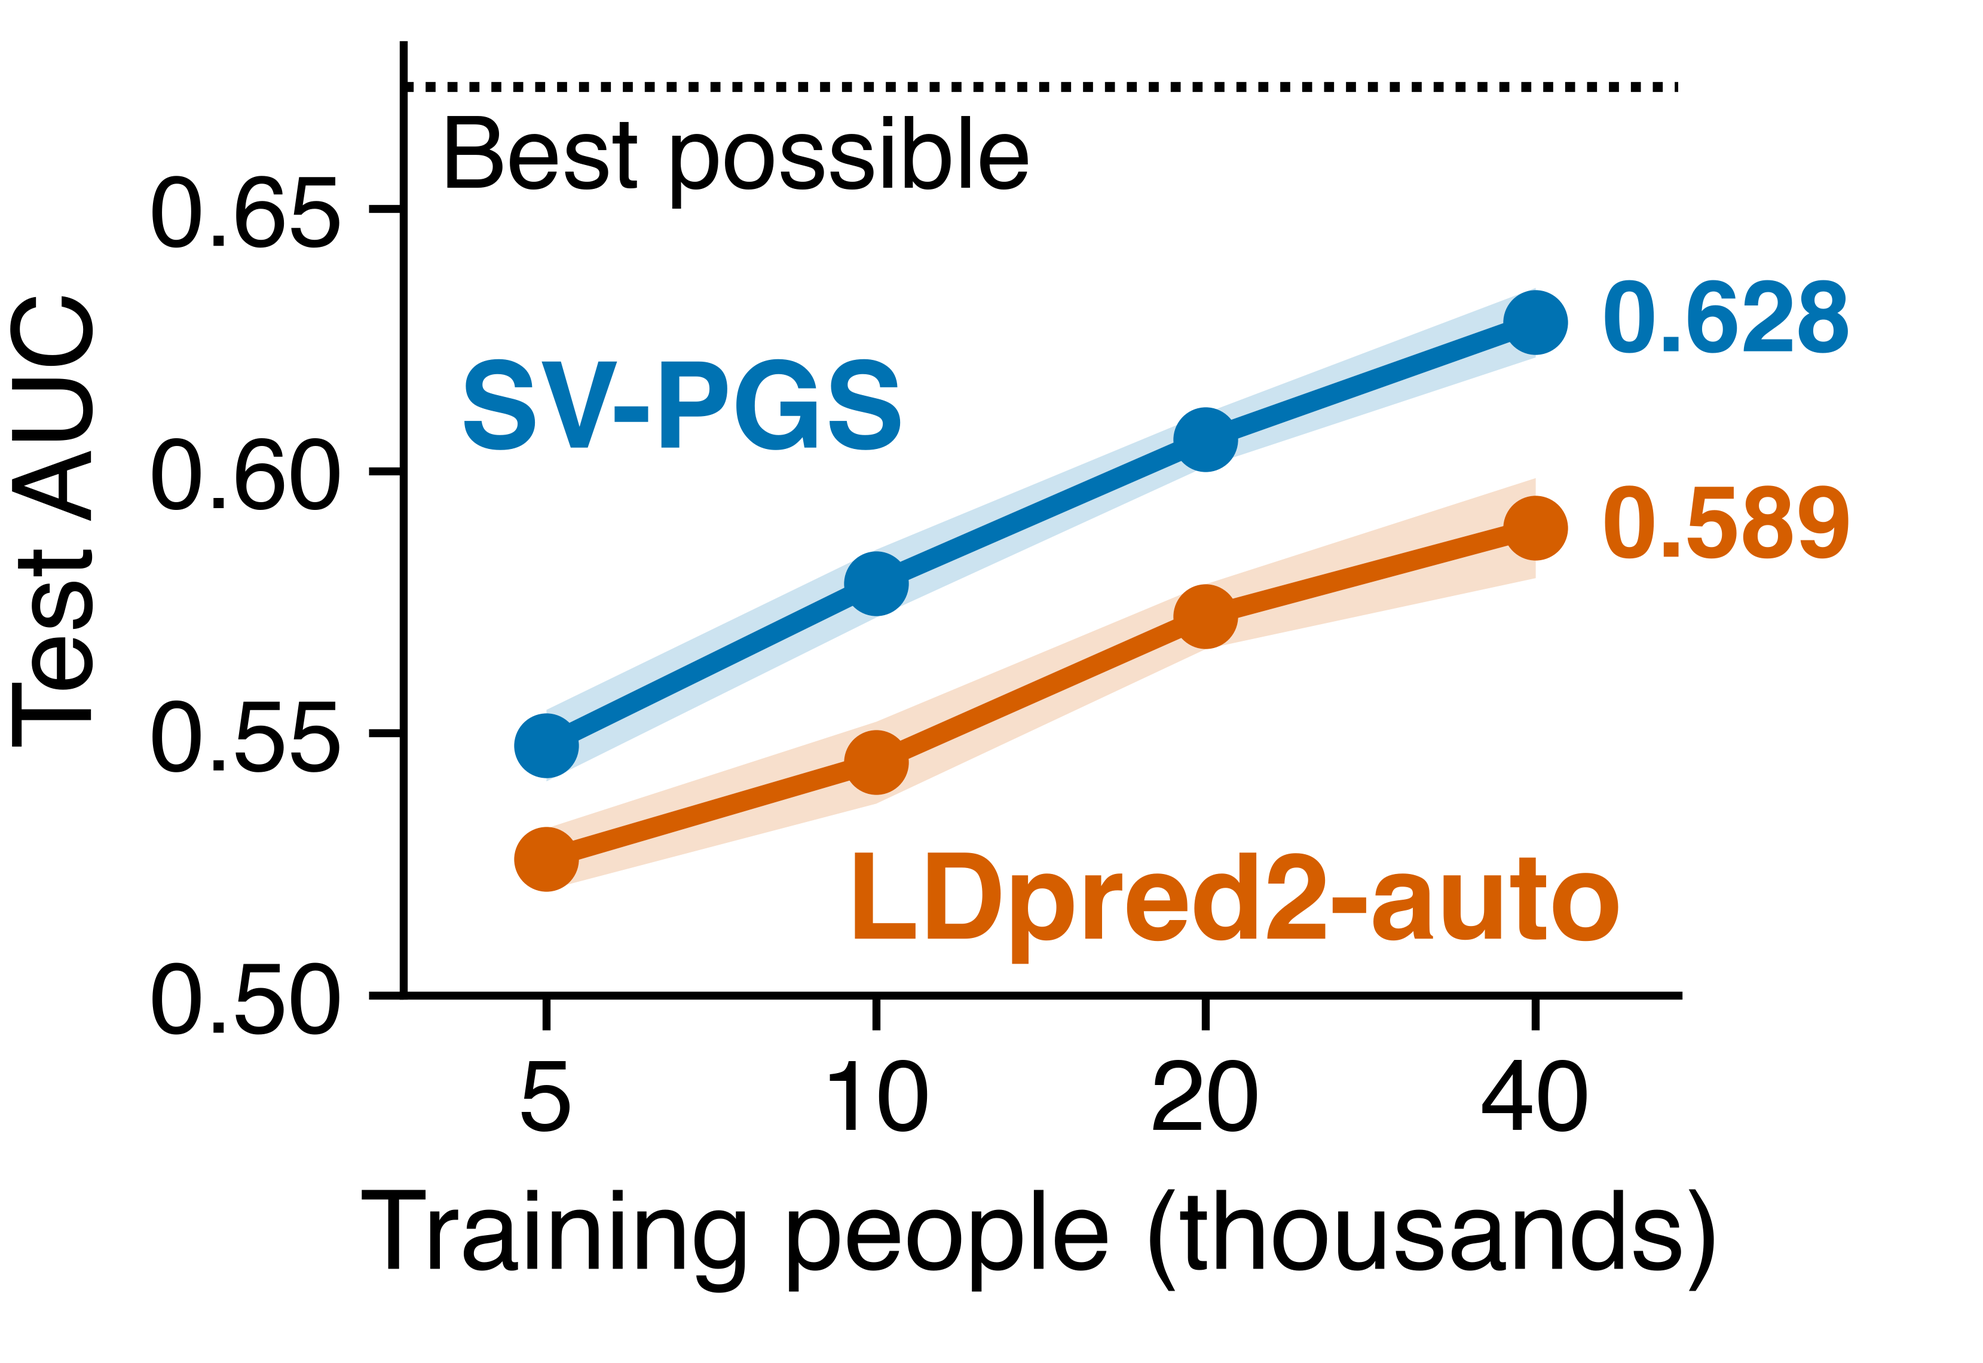
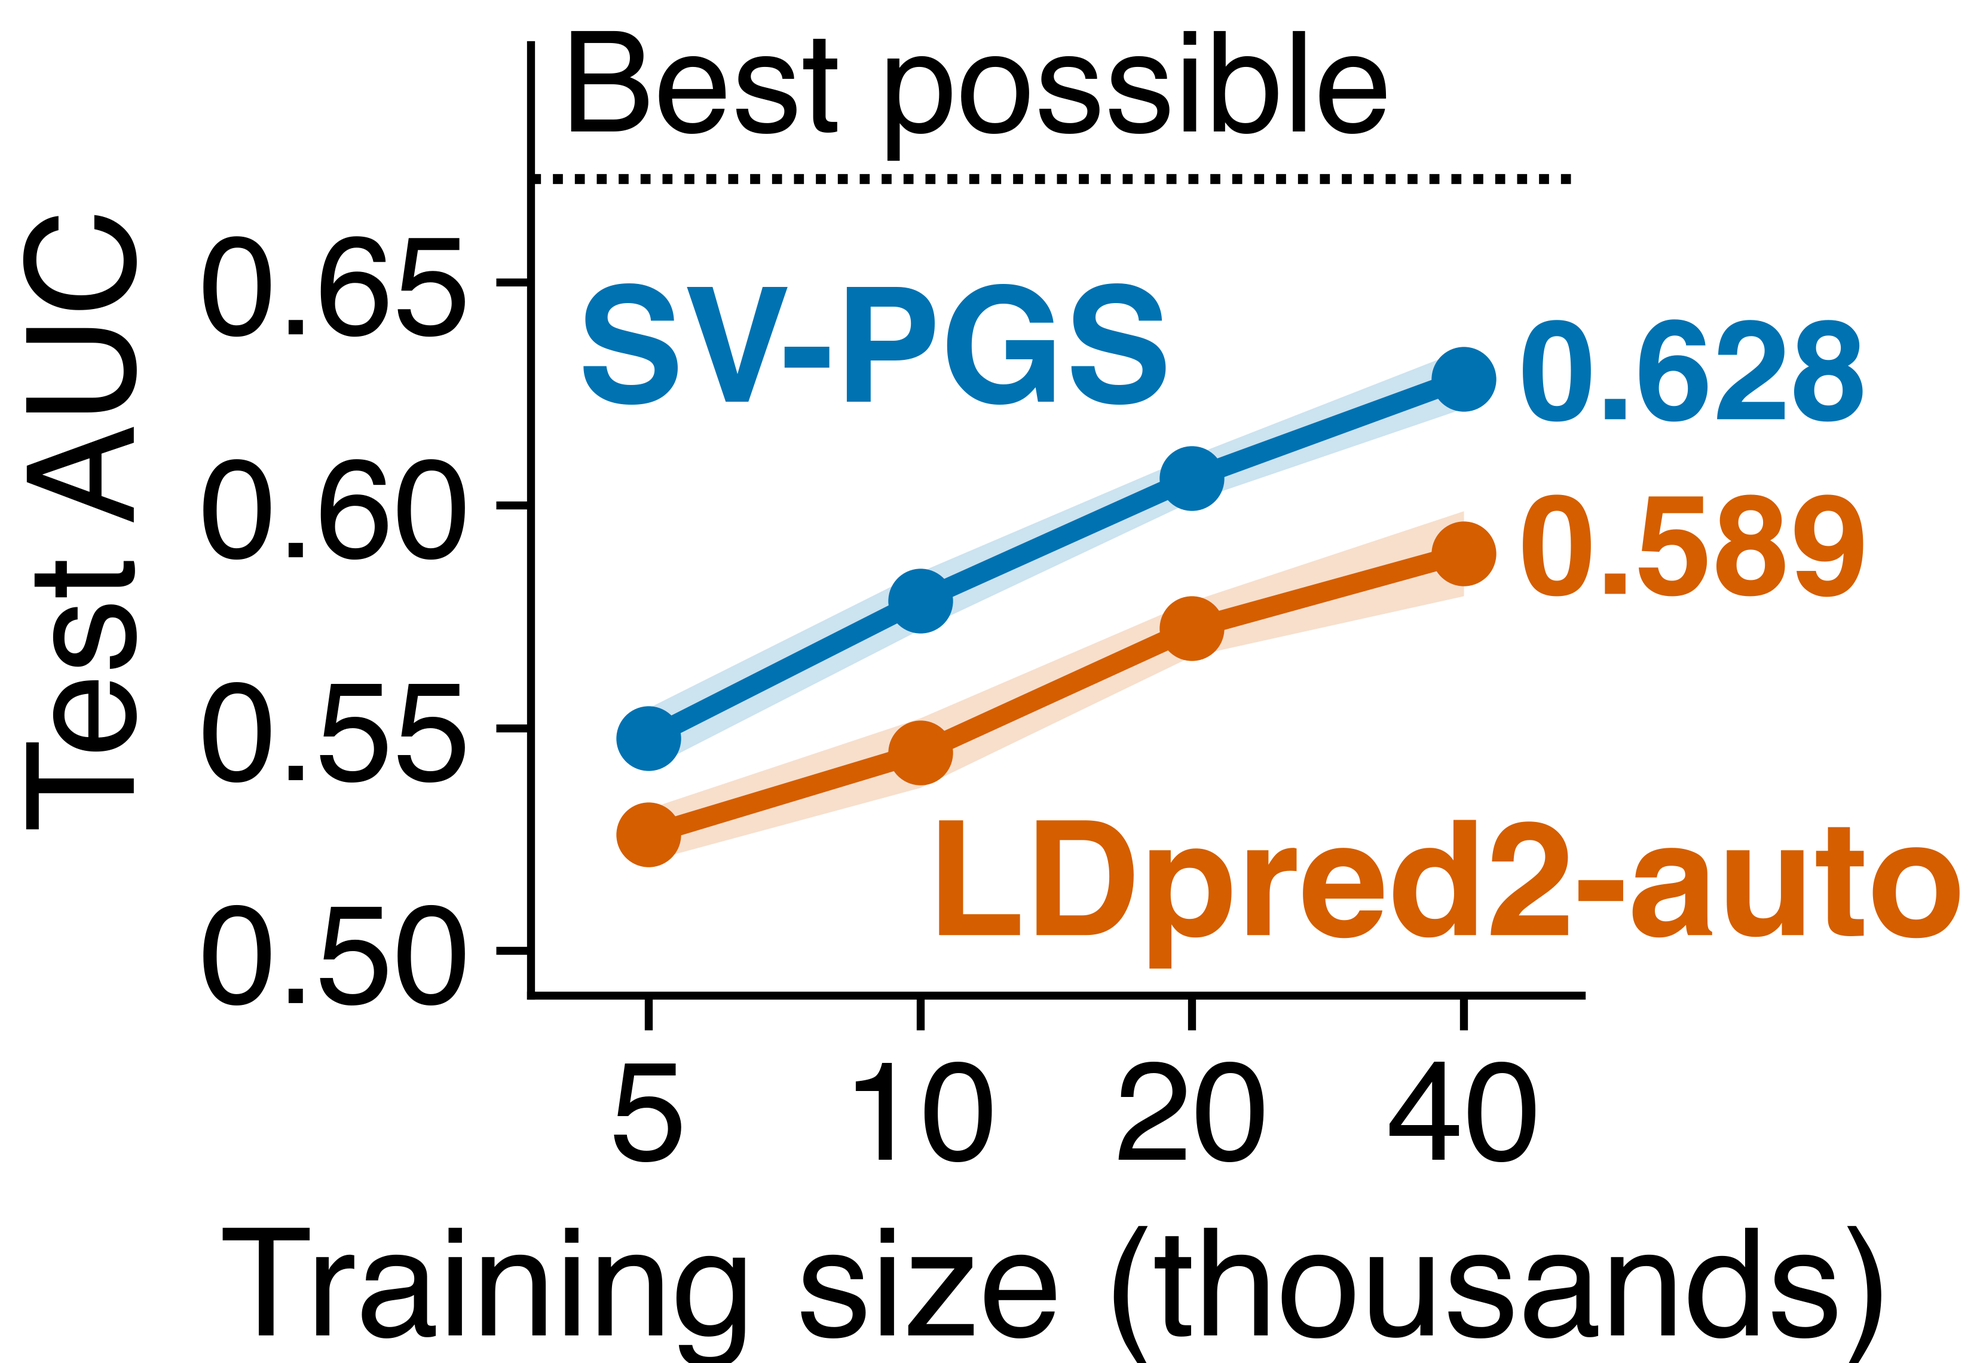
The poster's type is about 1.4 times larger, and its text is cut so the figures keep their space (docs/poster/ashg2026/build_pptx.py, sim_gallery.py). The user found every size too small. Body text goes from 40 to 56 pt and headlines from 40 to 60 pt. Section bars go from 54 to 72 pt, on bars 1.25 i
At these sizes the columns ran 2.3, 2.3 and 7.6 in past the bottom margin, so the text is cut. The Introduction is one bullet: "We test whether structural variants (SVs) improve polygenic scores". Methods is one bullet: "Empirical Bayes priors depend on imputation r², frequency and SV length". "on GPUs" is dropped. The design bullets lose the training and test sizes, which the accuracy figure's axis shows, and the 200 causal variants. The accuracy headline is "SV-PGS at 20,000 beat LDpred2-auto at 40,000", two lines. The All of Us section drops the bullet saying the comparison with SNV-only SV-PGS is running, since its placeholder says the same. Its other bullets lose GLIMPSE2, "short-read" and the 80/20 family split. The placeholders' words are shorter, so they fit at headline size. The Discussion keeps its two points in short form: "SV-PGS outperformed LDpred2-auto even with no causal SVs" and "SVs add most when their genotypes are accurate". These are worded so that no line breaks inside "LDpred2-auto". The references are one paragraph of first author, year and journal. Section breaks are 0.5 in instead of 0.7 in. auc(), gain() and NBSP lose their last users and are deleted.
[…]

Changed region(s): [[0.0, 0.0, 0.9934, 0.7785], [0.1242, 0.7785, 0.9623, 1.0], [0.8071, 0.7162, 0.8382, 0.7474]]

diff --git a/docs/poster/ashg2026/build_pptx.py b/docs/poster/ashg2026/build_pptx.py
@@ -60,8 +60,8 @@ COLUMNS = ((MARGIN, LEFT), (MARGIN + LEFT + GUTTER, MIDDLE), (48 - MARGIN - RIGH
 """Each column's left edge and width."""
 INSET = 0.3
 """Text sits this far inside its column, under the section bars' labels."""
-BAR, BAR_SIZE = 1.0, 54
-BODY, HEADLINE, GLOSS, REFERENCE = 40, 40, 40, 32
+BAR, BAR_SIZE = 1.25, 72
+BODY, HEADLINE, GLOSS, REFERENCE = 56, 60, 56, 44
 LINE_PITCH = 1.066
 """Line pitch per point of type at 90% line spacing, measured on the LibreOffice render."""
 SHIFTED_PITCH = 0.25
@@ -69,7 +69,7 @@ SHIFTED_PITCH = 0.25
 BULLET_INDENT = 0.42
 AFTER = 14
 """Points of space after a bullet."""
-GAPS = {"bar": 0.35, "block": 0.3, "section": 0.7}
+GAPS = {"bar": 0.35, "block": 0.3, "section": 0.5}
 """Space under a section bar, between blocks of a section, and above the next bar (before the column is justified)."""
 JUSTIFY_LIMIT = 2.0
 """The most extra space a section break takes when a column is spread to the bottom margin."""
@@ -84,16 +84,17 @@ COLOURS = {"blue": BLUE, "vermillion": VERMILLION, "grey": GREY, "sky": SKY}
 
 TITLE = ["Enabling Polygenic Prediction from Structural", "Variants in the NIH All of Us Multi-Ancestry Biobank"]
 REFERENCES = [
-    "Byrska-Bishop et al. (2022) Cell 185:3426.",
-    "Taylor et al. (2024) Nature 631:610.",
-    "Privé et al. (2020) Bioinformatics 36:5424.",
-    "Browning et al. (2018) Am J Hum Genet 103:338.",
-    "Wray et al. (2010) PLoS Genet 6:e1000864.",
-    "All of Us Research Program Investigators (2019) N Engl J Med 381:668.",
+    "Byrska-Bishop 2022 Cell",
+    "Taylor 2024 Nature",
+    "Privé 2020 Bioinformatics",
+    "Browning 2018 Am J Hum Genet",
+    "Wray 2010 PLoS Genet",
+    "All of Us 2019 N Engl J Med",
 ]
+"""First author, year and journal, set as one paragraph."""
 PLACEHOLDERS = [
-    ("SV effect sizes by SV class and length", "From the fitted SV-PGS models"),
-    ("Test accuracy with vs without SVs", "SV-PGS with SVs vs SNV-only, fitted by identical code"),
+    ("SV effect sizes", "By SV class and length"),
+    ("Test AUC with SVs", "vs SNV-only, same code"),
 ]
 
 
@@ -114,18 +115,6 @@ def marked(text: str) -> list[tuple[str, str]]:
     return runs
 
 
-NBSP = "\u00a0"
-"""A space no line breaks at, which keeps a number with its unit."""
-
-
-def auc(value: float) -> str:
-    return f"{value:.3f}"
-
-
-def gain(value: float) -> str:
-    return f"{value:+.3f}".replace("-", "−")
-
-
 def people(count: int) -> str:
     return f"{count:,}"
 
@@ -142,36 +131,27 @@ def copy(numbers: dict) -> dict:
     imputed_well = gain["rows"]["tagged_sv_fold3"]
     kept_well = imputed_well["imputed"][0] / imputed_well["true"][0]
     return {
-        "introduction": [
-            "Polygenic scores (PGSs) rarely include structural variants (SVs)",
-            "We test whether adding SVs makes PGSs more accurate",
-        ],
-        "methods": ["Prior variance depends on imputation r², allele frequency and SV length",
-                    "Priors fit by empirical Bayes on GPUs"],
+        "introduction": ["We test whether structural variants (SVs) improve polygenic scores"],
+        "methods": ["Empirical Bayes priors depend on imputation r², frequency and SV length"],
         "code": ["Code:", "github.com/", "SauersML/SV-PGS"],
         "design": [
-            f"{people(svs['people'])} people from 1000 Genomes chr22: train on {people(sizes[0])}–{people(sizes[-1])}, "
-            f"test on {people(accuracy['test_people'])}",
-            f"Binary trait: liability h² = {accuracy['h2']:g}, prevalence {accuracy['prevalence']:.0%}, "
-            f"{accuracy['causal']} causal variants",
-            f"{gain['shown']} genetic architectures vary the causal SVs or the trait; SVs imputed by Beagle",
+            f"{people(svs['people'])} people from 1000 Genomes chr22",
+            f"Binary trait: h² = {accuracy['h2']:g}, prevalence {accuracy['prevalence']:.0%}",
+            f"{gain['shown']} genetic architectures; SVs imputed by Beagle",
         ],
-        "accuracy": f"SV-PGS trained on {people(sooner)} people beat LDpred2-auto trained on {people(sizes[-1])} "
-                    f"(AUC{NBSP}{auc(ours[sizes.index(sooner)][0])}{NBSP}vs{NBSP}{auc(theirs[-1][0])})" if sooner else "",
+        "accuracy": f"SV-PGS at {people(sooner)} beat LDpred2-auto at {people(sizes[-1])}" if sooner else "",
         "versus": f"SV-PGS had higher AUC in {beaten} {wins['replicates']} simulations",
         "gain_title": f"Imputed SV genotypes gave {share:.0%} of the AUC gain of true SV genotypes",
         "gain": [f"The {gain['clear']} of {gain['shown']} architectures where true SV genotypes raised AUC (95% CI above "
                  "0), in one 3 Mb window of chr22",
                  f"Where causal SVs impute well, the gain with imputed genotypes was **{kept_well:.0%}** as large"],
         "aou": [
-            "50,000 short-read genomes; SVs imputed by GLIMPSE2 from 12,212 long-read assemblies",
-            "SV-PGS fitted with SVs for LDL, hypothyroidism, AF and gout; one 80/20 split by family",
-            "Accuracy with SVs against SNV-only SV-PGS, both fitted by identical code, is running",
+            "SVs imputed into 50,000 genomes from 12,212 long-read assemblies",
+            "SV-PGS fitted for LDL, hypothyroidism, AF and gout",
         ],
         "discussion": [
-            "SV-PGS beats LDpred2-auto even with no causal SVs, so the gain comes from its model and denser variant set",
-            f"With imputed SV genotypes the gain was **{share:.0%}** as large, so SVs add most when their genotypes are "
-            "accurate",
+            "SV-PGS outperformed LDpred2-auto even with no causal SVs",
+            "SVs add most when their genotypes are accurate",
         ],
     }
 
@@ -295,7 +275,7 @@ def placeholder(shape_id: int, x: float, y: float, width: float, height: float, 
     """A dashed panel where an All of Us figure will go."""
     text = "".join(
         Para([(words, flags)], size, bullet=False, colour=colour, after=after, align="ctr").xml()
-        for words, flags, size, colour, after in (("All of Us · result pending", "b", 26, TEAL, 18),
+        for words, flags, size, colour, after in (("All of Us · result pending", "b", REFERENCE, TEAL, 18),
                                                   (title, "b", HEADLINE, INK, 12), (detail, "", GLOSS, GREY, 0))
     )
     return (
@@ -371,7 +351,7 @@ def authors_and_affiliations() -> tuple[list[tuple[str, str]], list[str]]:
 
 def header(xml: str) -> str:
     """The abstract's title (two lines, as the template sets it), then its authors and affiliations."""
-    title = "".join(Para([(text, "b")], 76, bullet=False, colour="FFFFFF", after=0).xml() for text in TITLE)
+    title = "".join(Para([(text, "b")], 92, bullet=False, colour="FFFFFF", after=0).xml() for text in TITLE)
     xml = replace_text(xml, 89, title.replace('<a:spcPct val="90000"/>', '<a:spcPct val="100000"/>'))
     authors, affiliations = authors_and_affiliations()
     author_runs: list[tuple[str, str]] = []
@@ -385,10 +365,10 @@ def header(xml: str) -> str:
     # the template's three-name line (about 56 characters at 72 pt) clears the wordmark with room for some 64
     names_size = min(72, 72 * 64 // max(len(plain), 1))
     lines = [Para(author_runs, names_size, bullet=False, colour="FFFFFF", after=3)]
-    lines += [Para([(entry.split(" ", 1)[0], "sup"), (entry.split(" ", 1)[1], "")], 22, bullet=False, colour="FFFFFF",
+    lines += [Para([(entry.split(" ", 1)[0], "sup"), (entry.split(" ", 1)[1], "")], 34, bullet=False, colour="FFFFFF",
                    after=0) for entry in affiliations]
     xml = replace_text(xml, 90, "".join(line.xml() for line in lines))
-    return move(xml, 90, 1.37, 2.55, 32.5, 2.9)
+    return move(xml, 90, 1.37, 3.0, 32.5, 2.45)
 
 
 # ------------------------------------------------------------------ laying out the columns
@@ -644,7 +624,7 @@ def build() -> None:
         [
             bar(119, "All of Us"), text(bullets(words["aou"])), *aou_blocks(),
             bar(95, "Discussion"), text(bullets(words["discussion"])),
-            bar(96, "References"), text([Para([(entry, "")], REFERENCE, bullet=False, after=6) for entry in REFERENCES]),
+            bar(96, "References"), text([Para([("; ".join(REFERENCES), "")], REFERENCE, bullet=False, after=0)]),
             code(words["code"]),
         ],
     ]

diff --git a/docs/poster/ashg2026/sim_gallery.py b/docs/poster/ashg2026/sim_gallery.py
@@ -795,7 +795,7 @@ def genotype_figure(summary):
 # ------------------------------------------------------------------ the poster's own figures
 
 
-POSTER_TYPE, POSTER_LABEL, POSTER_NAME = 40, 44, 48
+POSTER_TYPE, POSTER_LABEL, POSTER_NAME = 56, 60, 64
 """Points at print size in the poster's figures: ticks and notes; axis titles; the bold names of methods and genotype
 sources written beside their marks. A poster figure carries no legend and no title, since the poster's headline over
 it states its message."""
@@ -820,30 +820,32 @@ def poster_accuracy_figure(grids, summary):
     the AUC of the true genetic value."""
     grouped = cells(grids["grid"])
     fig = plt.figure(figsize=(POSTER_HALF, POSTER_HEIGHT))
-    # the right margin holds each line's last AUC, in bold at tick size
+    # the right margin holds each line's last AUC, in bold at tick size; the left one the ticks and the axis title
     ends = widest(fig, ["0.000"], fontsize=POSTER_TYPE, fontweight="bold")
-    top, bottom, left, right = 0.25, 2.05, 2.25, 0.3 + ends
+    top, bottom, left, right = 0.25, 2.05, widest(fig, ["0.00"], fontsize=POSTER_TYPE) + 1.45, 0.3 + ends
     ax = frame(fig, left, bottom, POSTER_HALF - left - right, POSTER_HEIGHT - top - bottom)
     log_size_axis(ax)
-    ax.set_xlabel("Training people (thousands)")
+    ax.set_xlabel("Training size (thousands)")
     ceiling = summary["points"]["null"]["true_value_auc"]
     ax.axhline(ceiling, color=INK, linestyle=(0, (1, 1.2)), linewidth=4.0, zorder=1)
-    ax.text(SIZES[0] / 1.25, ceiling - 0.005, "Best possible", color=INK, va="top", ha="left")
-    means = {}
+    # named over its line, so the room under it is SV-PGS's
+    ax.text(SIZES[0] / 1.25, ceiling + 0.004, "Best possible", color=INK, va="bottom", ha="left")
+    upper = {}
     for key, method, color in (("with_sv_auc", "SV-PGS", SV_PGS), ("ldpred2_auc", "LDpred2-auto", LDPRED2)):
         pooled = [interval([row[key] for point, *_ in SV_SHARES for row in grouped.get((point, size), [])])
                   for size in SIZES]
         mean, low, high = (np.array([cell[i] for cell in pooled]) for i in range(3))
-        means[method] = mean
+        upper[method] = high
         ax.fill_between(SIZES, low, high, color=color, alpha=0.2, linewidth=0, zorder=2)
         ax.plot(SIZES, mean, color=color, zorder=3, marker="o", markeredgewidth=0)
         ax.text(SIZES[-1] * 1.15, mean[-1], f"{mean[-1]:.3f}", color=color, fontweight="bold", ha="left", va="center")
-    # each method's name on the empty side of its own line: SV-PGS above its left half, LDpred2-auto below its right
-    ax.text(SIZES[0] / 1.2, means["SV-PGS"][1] + 0.022, "SV-PGS", color=SV_PGS, fontsize=POSTER_NAME,
+    # each method's name on the empty side of its own line: SV-PGS over its left half, clear of its band at 20,000;
+    # LDpred2-auto, wider than the axes, under its right half and on into the right margin
+    ax.text(SIZES[0] / 1.2, upper["SV-PGS"][2] + 0.006, "SV-PGS", color=SV_PGS, fontsize=POSTER_NAME,
             fontweight="bold", ha="left", va="bottom")
-    ax.text(SIZES[-1] * 1.2, 0.506, "LDpred2-auto", color=LDPRED2, fontsize=POSTER_NAME, fontweight="bold",
-            ha="right", va="bottom")
-    ax.set_ylim(0.5, ceiling + 0.008)
+    ax.text(1, 0.496, "LDpred2-auto", transform=shifted(ax, right - 0.1), color=LDPRED2, fontsize=POSTER_NAME,
+            fontweight="bold", ha="right", va="bottom")
+    ax.set_ylim(0.49, ceiling + 0.03)
     ax.set_yticks(np.arange(0.5, 0.651, 0.05), ["0.50", "0.55", "0.60", "0.65"])
     ax.set_ylabel("Test AUC")
     return fig
@@ -1091,7 +1093,7 @@ def gallery_page(pdf: PdfPages, image: Path, caption: str) -> None:
 COLUMN, EDGE = 11.4, 0.3
 """Inches: the poster's left column (build_pptx.py's LEFT), where its schematics are placed at full width so their type
 prints at its own size, and the margin kept clear at either side."""
-VARIANTS = (("SNV", INK, 0.09), ("indel", GREEN, 0.3), ("SV", IMPUTED, 1.3))
+VARIANTS = (("SNV", INK, 0.09), ("indel", GREEN, 0.3), ("SV", IMPUTED, 1.1))
 """The variant classes as the left column draws them: name, colour, and the width in inches of the block that stands for
 one variant on a chromosome (one base for an SNV, a few for an indel, many for an SV)."""
 SCHEMATICS = {
@@ -1127,22 +1129,27 @@ def chromosome(ax, left: float, right: float, y: float, marks, tall: float = 0.5
 def poster_model_figure():
     """The SV-PGS model for the poster's Methods: an SNV, an indel and an SV on a chromosome, each class with its own
     effect-size prior (the SV's also at a low imputation r², which narrows it), all fitted together into one score."""
-    height = 4.4
+    height = 4.6
     fig, ax = canvas(height)
-    # the priors' centre line and half-width, and the score's box, in inches
-    centre, reach = 5.75, 1.45
-    box_left, box_middle, box_tall = 8.3, 2.05, 1.25
-    bases = (2.85, 1.65, 0.25)
+    # left to right, in inches: the class names, a stretch of chromosome after the widest, the priors, the arrows, and
+    # the score's box as wide as its name
+    name_style = {"fontsize": POSTER_NAME, "fontweight": "bold"}
+    stretch = EDGE + widest(fig, [name for name, *_ in VARIANTS], **name_style) + 0.2
+    stretch = (stretch, stretch + 1.45)
+    box_left = COLUMN - EDGE - widest(fig, ["SV-PGS"], **name_style) - 0.3
+    box_middle, box_tall = 1.9, 1.25
+    centre, reach = (stretch[1] + 0.2 + box_left - 1.1) / 2, (box_left - 1.1 - stretch[1] - 0.2) / 2
+    bases = (2.75, 1.8, 0.2)
     # each class's prior SD in inches, a schematic (empirical Bayes learns the real ones); every prior encloses the
-    # same area, so a narrower one stands taller, the SNV's 0.9 in
+    # same area, so a narrower one stands taller, the SNV's 0.75 in
     spreads = (0.2, 0.28, 0.5)
-    area = 0.9 * spreads[0] * math.sqrt(2 * math.pi)
+    area = 0.75 * spreads[0] * math.sqrt(2 * math.pi)
     effect = np.linspace(-reach, reach, 400)
     ax.text(centre, height - 0.04, "Effect-size prior", ha="center", va="top", color=INK)
     for (name, colour, block), base, spread in zip(VARIANTS, bases, spreads):
         middle = base + 0.4
-        ax.text(EDGE, middle, name, ha="left", va="center", color=colour, fontsize=POSTER_NAME, fontweight="bold")
-        chromosome(ax, 2.1, 4.0, middle, [(3.05, block, colour)])
+        ax.text(EDGE, middle, name, ha="left", va="center", color=colour, **name_style)
+        chromosome(ax, *stretch, middle, [(sum(stretch) / 2, block, colour)])
         ax.plot([centre - reach, centre + reach], [base, base], color=LIGHT, linewidth=3.2, zorder=1,
                 solid_capstyle="round")
         # each curve drawn where it stands clear of its baseline, so the tails leave the baseline bare
@@ -1157,17 +1164,16 @@ def poster_model_figure():
             shown = low > 0.03
             ax.plot(centre + effect[shown], base + low[shown], color=colour, linewidth=5.0, linestyle=(0, (1.4, 1.1)),
                     zorder=3)
-            ax.text(centre, base + low.max() + 0.05, "low r²", ha="center", va="bottom", color=INK)
+            ax.text(centre, base + low.max() + 0.04, "low r²", ha="center", va="bottom", color=INK)
         # every class into the one model
         ax.annotate("", xy=(box_left - 0.08, box_middle + (middle - box_middle) * 0.4),
-                    xytext=(centre + reach + 0.2, middle),
+                    xytext=(centre + reach + 0.15, middle),
                     arrowprops={"arrowstyle": "-|>,head_length=0.55,head_width=0.28", "color": INK, "linewidth": 4.0,
                                 "shrinkA": 0, "shrinkB": 0})
     ax.add_patch(matplotlib.patches.FancyBboxPatch((box_left, box_middle - box_tall / 2), COLUMN - EDGE - box_left,
                                                    box_tall, boxstyle="round,pad=0,rounding_size=0.2",
                                                    facecolor=SV_PGS, edgecolor="none"))
-    ax.text((box_left + COLUMN - EDGE) / 2, box_middle, "SV-PGS", ha="center", va="center", color="white",
-            fontsize=POSTER_NAME, fontweight="bold")
+    ax.text((box_left + COLUMN - EDGE) / 2, box_middle, "SV-PGS", ha="center", va="center", color="white", **name_style)
     return fig
 
 
